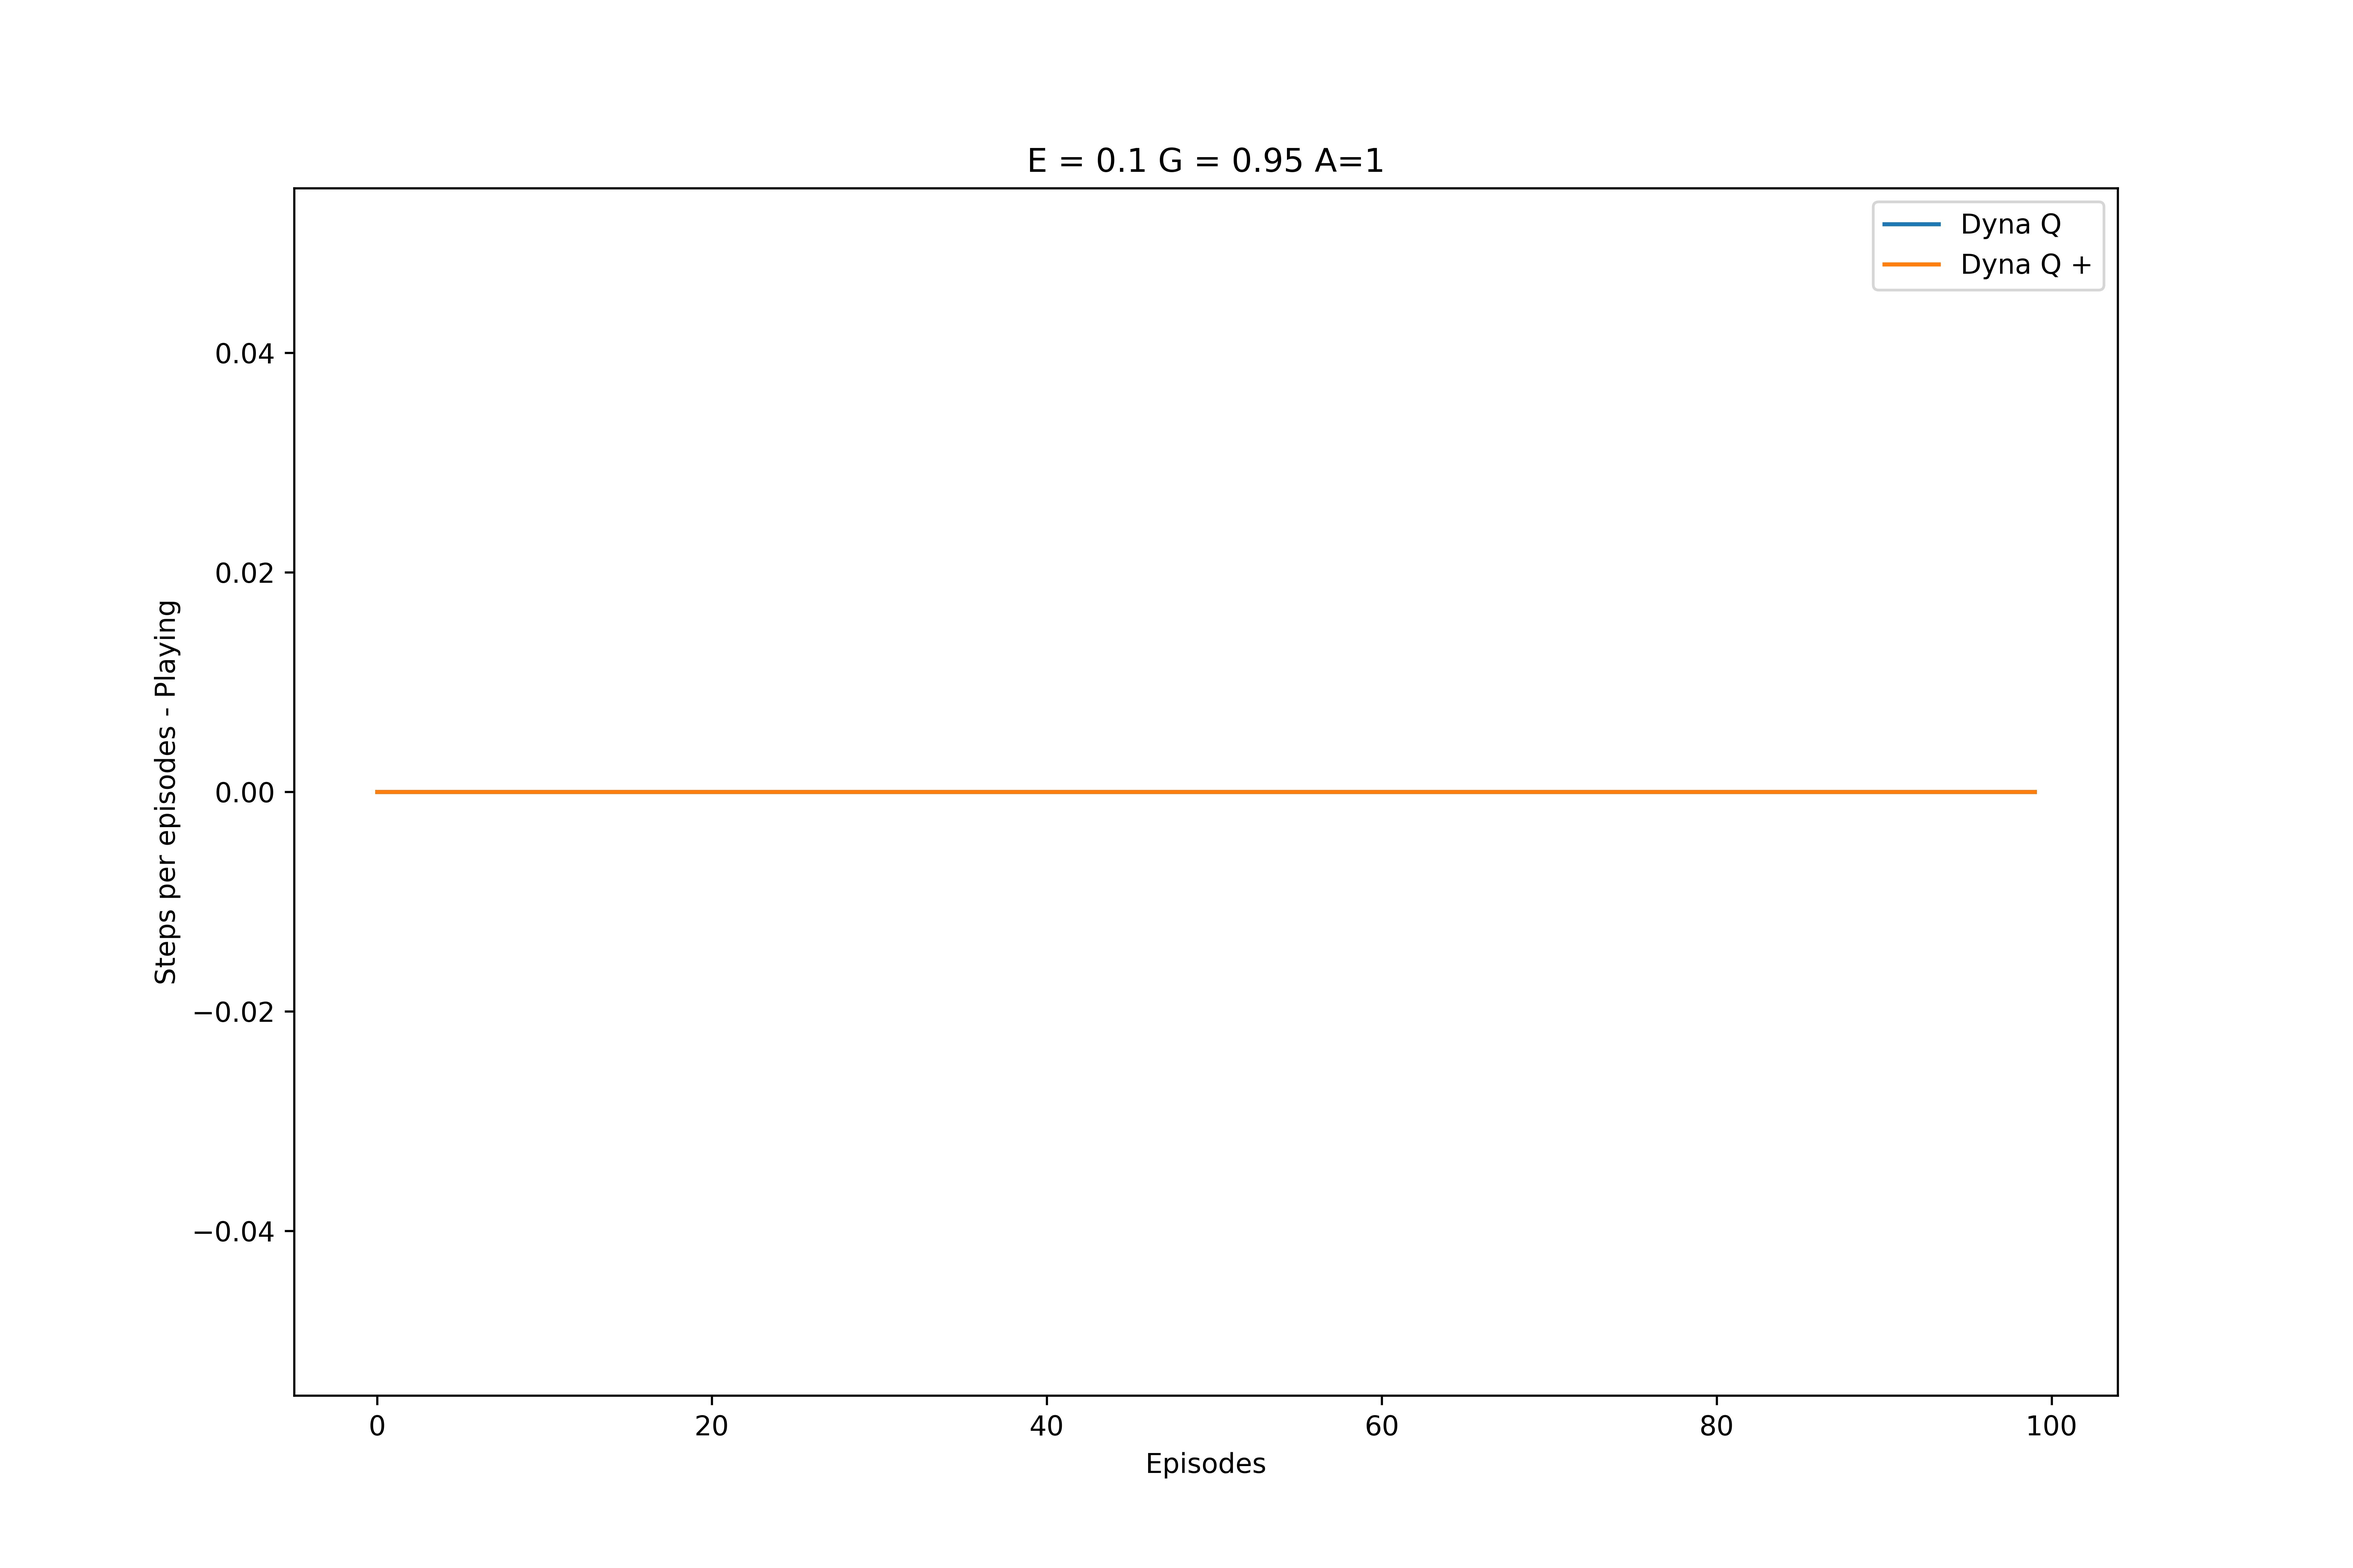
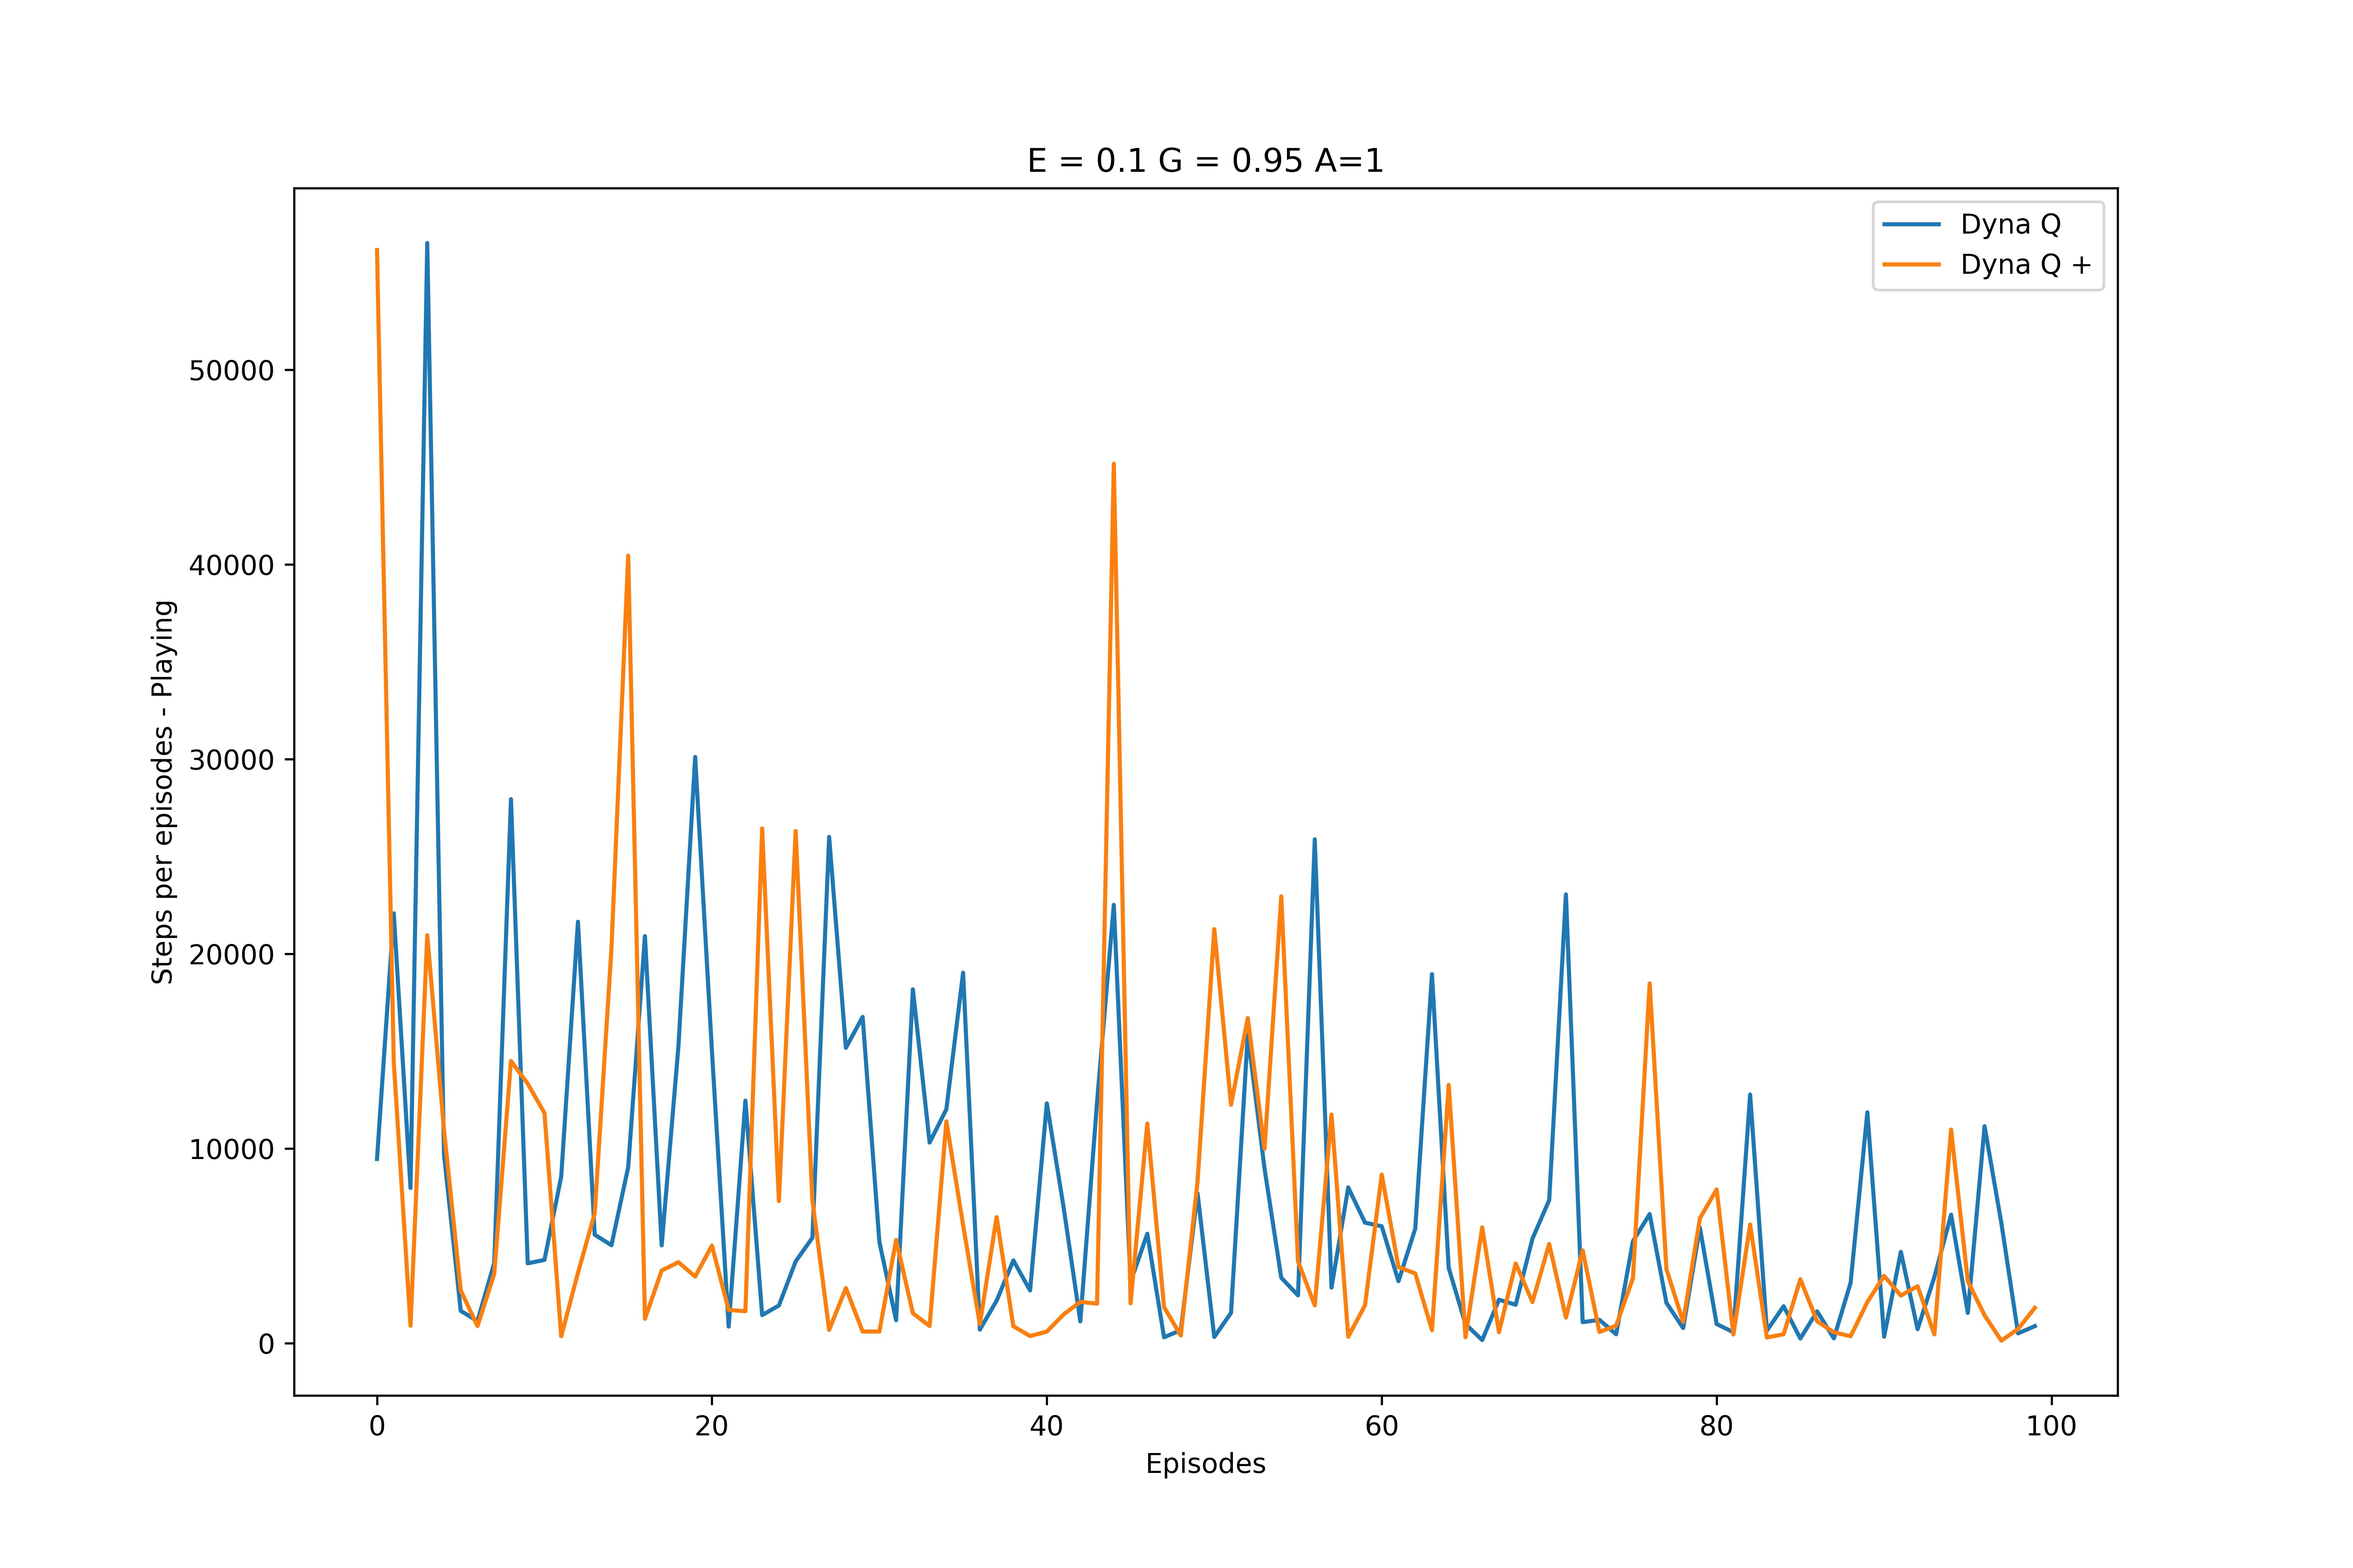
Task6-agent Corrected playing images.

diff --git a/Task6-Agent/Task6/lecture7/main.py b/Task6-Agent/Task6/lecture7/main.py
@@ -6,20 +6,20 @@ import matplotlib.pyplot as plt
 from agentDynaQ import agentDynaQ
 from agentDynaQPlus import agentDynaQPlus
 
+
 def run(env, agent, selection_method, episodes):
-    steps =0
     step = 0
     total_average = []
     for episode in range(episodes):
-        if episode > 0:
-            print(f"Episode: {episode+1}")
         observation, _ = env.reset()
+        if (episode % 100 == 0):
+            print("Episode", episode)
         agent.start_episode()
         terminated, truncated = False, False
         while not (terminated or truncated):
-            steps+=1
             action = agent.get_action(observation, selection_method)
-            next_observation, reward, terminated, truncated, _ = env.step(action)
+            next_observation, reward, terminated, truncated, _ = env.step(
+                action)
             agent.update(observation, action, next_observation, reward)
             observation = next_observation
         if selection_method == "epsilon-greedy":
@@ -29,64 +29,60 @@ def run(env, agent, selection_method, episodes):
                 reward, next_state = agent.model[(state, action)]
                 step = agent.update(state, action, next_state, reward)
         total_average.append(step)
-        step=0
+        step = 0
     return total_average
-    
+
+
 def play(env, agent, selection_method, episodes):
-    steps =0
     step = 0
     total_average = []
     for episode in range(episodes):
-        if episode > 0:
-            print(f"Episode: {episode+1}")
+        if (episode % 20 == 0):
+            print("Episode", episode)
         observation, _ = env.reset()
         agent.start_episode()
         terminated, truncated = False, False
         while not (terminated or truncated):
-            steps+=1
             action = agent.get_action(observation, selection_method)
-            next_observation, reward, terminated, truncated, _ = env.step(action)
-            agent.update(observation, action, next_observation, reward)
+            next_observation, reward, terminated, truncated, _ = env.step(
+                action)
+            step = agent.update(observation, action, next_observation, reward)
             observation = next_observation
-        if selection_method == "epsilon-greedy":
-            for _ in range(100):
-                state = np.random.choice(list(agent.visited_states.keys()))
-                action = np.random.choice(agent.visited_states[state])
-                reward, next_state = agent.model[(state, action)]
-                step = agent.update(state, action, next_state, reward)
         total_average.append(step)
-        step=0
+        step = 0
     return total_average
-                
+
+
 def printFigureIterable(array_dyna, array_dyna_plus, condition):
-    plt.figure(figsize=(12,8))
+    plt.figure(figsize=(12, 8))
     plt.plot(array_dyna,
-                label='Dyna Q')
+             label='Dyna Q')
     plt.plot(array_dyna_plus,
-                label='Dyna Q +')
+             label='Dyna Q +')
     label = ''
-    saved=''
-    if(condition == 0):
-        label='Steps per episodes- Training'
+    saved = ''
+    if (condition == 0):
+        label = 'Steps per episodes- Training'
         saved = "BlockEnvironmentDynaQvsDynaQPlus-Training.jpg"
     else:
-        label='Steps per episodes - Playing'
+        label = 'Steps per episodes - Playing'
         saved = "BlockEnvironmentDynaQvsDynaQPlus-Playing.jpg"
-        
+
     plt.ylabel(label)
     plt.xlabel('Episodes')
-    plt.title(label='E = {} G = {} A={}'.format(0.1,0.95,1))
+    plt.title(label='E = {} G = {} A={}'.format(0.1, 0.95, 1))
     plt.legend()
     plt.savefig(saved, dpi=600)
+
 
 if __name__ == "__main__":
     environments = ["Princess-v0", "Blocks-v0"]
     id = 0 if len(sys.argv) < 2 else int(sys.argv[1])
     episodes = 350 if len(sys.argv) < 3 else int(sys.argv[2])
-    
+
     steps_dyna_q = np.zeros(episodes)
     steps_dyna_q_plus = np.zeros(episodes)
-    
+
 # Dyna Q
     env = gym.make(environments[id])
     agent = agentDynaQ(
@@ -94,27 +90,25 @@ if __name__ == "__main__":
     )
 
     # Train
-    dyna_q_train=run(env, agent, "epsilon-greedy", episodes)
+    dyna_q_train = run(env, agent, "epsilon-greedy", episodes)
 
     # Play
-    env.reset()
     dyna_q_play = play(env, agent, "greedy", 100)
-    
-# Dyna Q + 
+
+# Dyna Q +
     env.reset()
     agent = agentDynaQPlus(
         env.observation_space.n, env.action_space.n, alpha=1, gamma=0.95, epsilon=0.1
     )
 
     # Train
-    dyna_q_plus_train=run(env, agent, "epsilon-greedy", episodes)
+    dyna_q_plus_train = run(env, agent, "epsilon-greedy", episodes)
 
     # Play
-    env.reset()
     dyna_q_plus_play = play(env, agent, "greedy", 100)
     # agent.render()
-    
+
     # grafica steps per episode vs Episodes.
-    printFigureIterable(dyna_q_train,dyna_q_plus_train,0)
-    printFigureIterable(dyna_q_play,dyna_q_plus_play,1)
+    printFigureIterable(dyna_q_train, dyna_q_plus_train, 0)
+    printFigureIterable(dyna_q_play, dyna_q_plus_play, 1)
     env.close()
